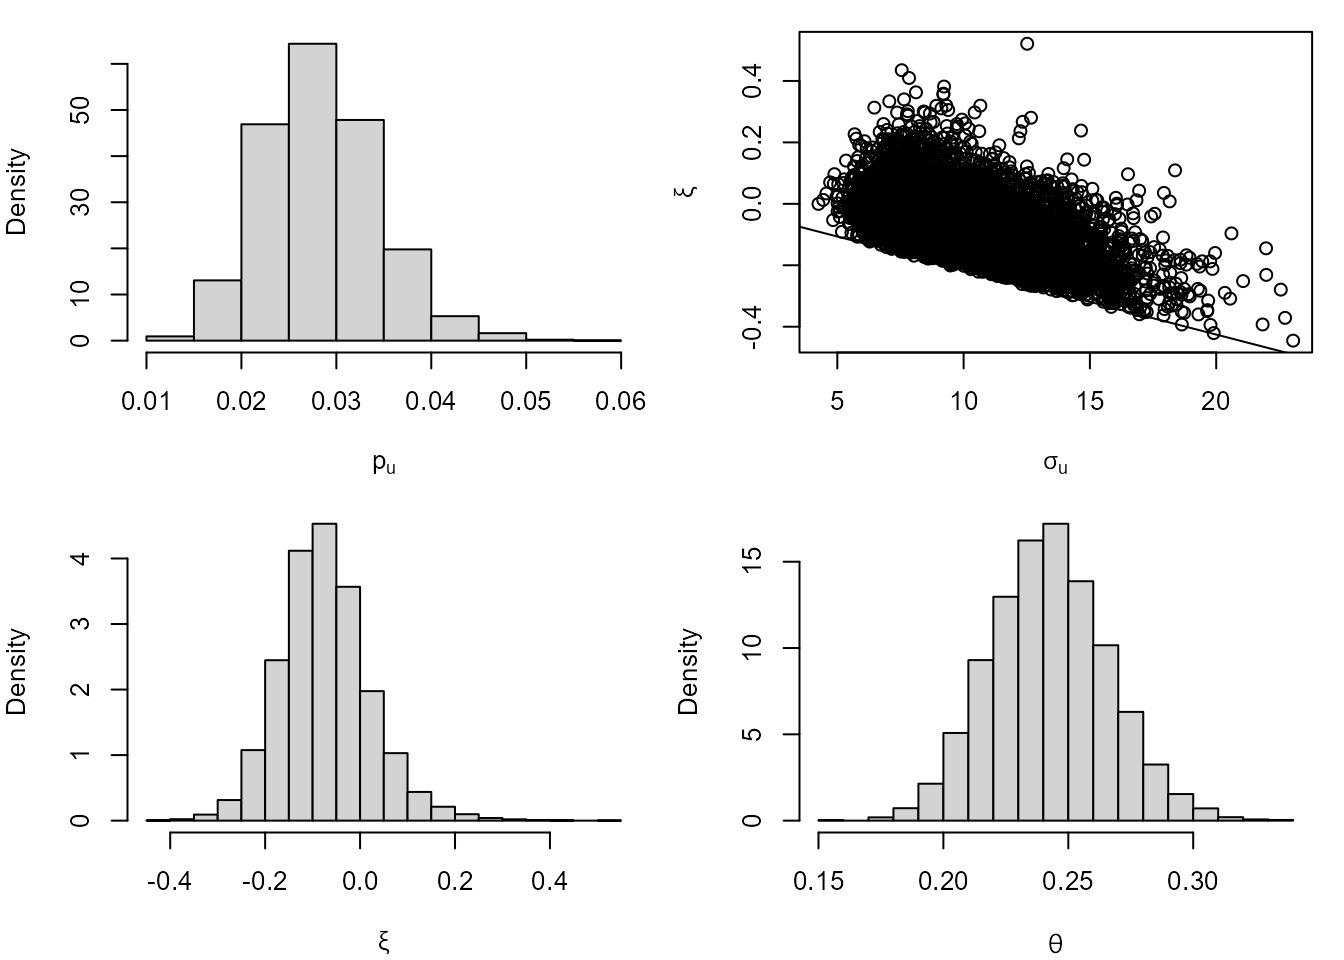
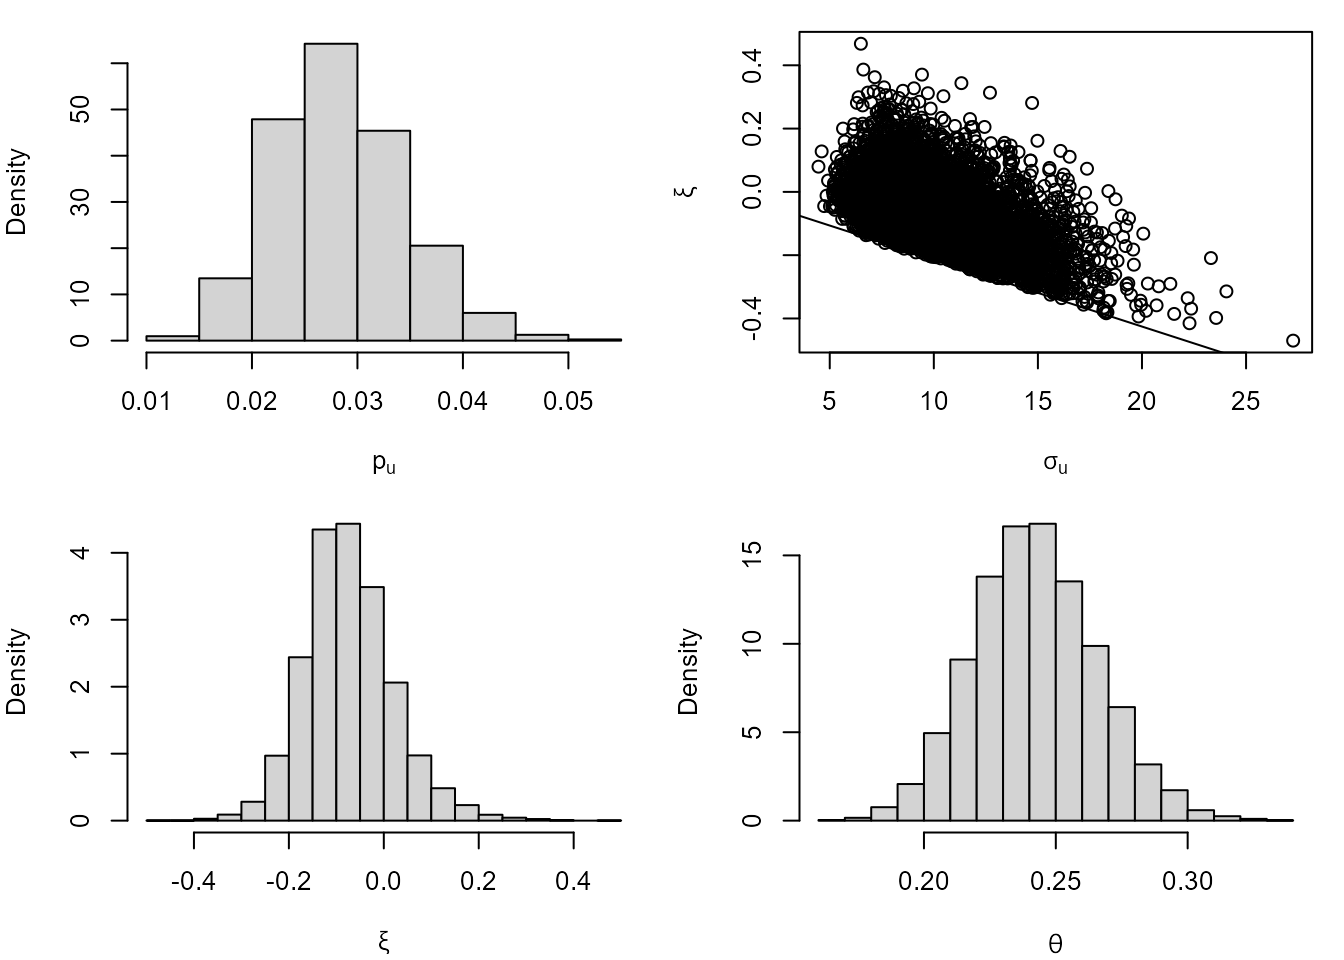
pkgdown

diff --git a/docs/reference/bliteMethods.html b/docs/reference/bliteMethods.html
@@ -1,6 +1,7 @@
 <!DOCTYPE html>
 <!-- Generated by pkgdown: do not edit by hand --><html lang="en"><head><meta http-equiv="Content-Type" content="text/html; charset=UTF-8"><meta charset="utf-8"><meta http-equiv="X-UA-Compatible" content="IE=edge"><meta name="viewport" content="width=device-width, initial-scale=1.0"><title>Methods for objects of class "blite" — bliteMethods • lite</title><!-- jquery --><script src="https://cdnjs.cloudflare.com/ajax/libs/jquery/3.4.1/jquery.min.js" integrity="sha256-CSXorXvZcTkaix6Yvo6HppcZGetbYMGWSFlBw8HfCJo=" crossorigin="anonymous"></script><!-- Bootstrap --><link href="https://cdnjs.cloudflare.com/ajax/libs/bootswatch/3.4.0/paper/bootstrap.min.css" rel="stylesheet" crossorigin="anonymous"><script src="https://cdnjs.cloudflare.com/ajax/libs/twitter-bootstrap/3.4.1/js/bootstrap.min.js" integrity="sha256-nuL8/2cJ5NDSSwnKD8VqreErSWHtnEP9E7AySL+1ev4=" crossorigin="anonymous"></script><!-- bootstrap-toc --><link rel="stylesheet" href="../bootstrap-toc.css"><script src="../bootstrap-toc.js"></script><!-- Font Awesome icons --><link rel="stylesheet" href="https://cdnjs.cloudflare.com/ajax/libs/font-awesome/5.12.1/css/all.min.css" integrity="sha256-mmgLkCYLUQbXn0B1SRqzHar6dCnv9oZFPEC1g1cwlkk=" crossorigin="anonymous"><link rel="stylesheet" href="https://cdnjs.cloudflare.com/ajax/libs/font-awesome/5.12.1/css/v4-shims.min.css" integrity="sha256-wZjR52fzng1pJHwx4aV2AO3yyTOXrcDW7jBpJtTwVxw=" crossorigin="anonymous"><!-- clipboard.js --><script src="https://cdnjs.cloudflare.com/ajax/libs/clipboard.js/2.0.6/clipboard.min.js" integrity="sha256-inc5kl9MA1hkeYUt+EC3BhlIgyp/2jDIyBLS6k3UxPI=" crossorigin="anonymous"></script><!-- headroom.js --><script src="https://cdnjs.cloudflare.com/ajax/libs/headroom/0.11.0/headroom.min.js" integrity="sha256-AsUX4SJE1+yuDu5+mAVzJbuYNPHj/WroHuZ8Ir/CkE0=" crossorigin="anonymous"></script><script src="https://cdnjs.cloudflare.com/ajax/libs/headroom/0.11.0/jQuery.headroom.min.js" integrity="sha256-ZX/yNShbjqsohH1k95liqY9Gd8uOiE1S4vZc+9KQ1K4=" crossorigin="anonymous"></script><!-- pkgdown --><link href="../pkgdown.css" rel="stylesheet"><script src="../pkgdown.js"></script><meta property="og:title" content="Methods for objects of class " blite blitemethods><meta property="og:description" content='Methods for objects of class "blite" returned from
-blite.'><!-- mathjax --><script src="https://cdnjs.cloudflare.com/ajax/libs/mathjax/2.7.5/MathJax.js" integrity="sha256-nvJJv9wWKEm88qvoQl9ekL2J+k/RWIsaSScxxlsrv8k=" crossorigin="anonymous"></script><script src="https://cdnjs.cloudflare.com/ajax/libs/mathjax/2.7.5/config/TeX-AMS-MML_HTMLorMML.js" integrity="sha256-84DKXVJXs0/F8OTMzX4UR909+jtl4G7SPypPavF+GfA=" crossorigin="anonymous"></script><!--[if lt IE 9]>
+blite. confint.blite is a misnomer: it returns
+Bayesian credible intervals.'><!-- mathjax --><script src="https://cdnjs.cloudflare.com/ajax/libs/mathjax/2.7.5/MathJax.js" integrity="sha256-nvJJv9wWKEm88qvoQl9ekL2J+k/RWIsaSScxxlsrv8k=" crossorigin="anonymous"></script><script src="https://cdnjs.cloudflare.com/ajax/libs/mathjax/2.7.5/config/TeX-AMS-MML_HTMLorMML.js" integrity="sha256-84DKXVJXs0/F8OTMzX4UR909+jtl4G7SPypPavF+GfA=" crossorigin="anonymous"></script><!--[if lt IE 9]>
 <script src="https://oss.maxcdn.com/html5shiv/3.7.3/html5shiv.min.js"></script>
 <script src="https://oss.maxcdn.com/respond/1.4.2/respond.min.js"></script>
 <![endif]--></head><body data-spy="scroll" data-target="#toc">
@@ -64,7 +65,8 @@ blite.'><!-- mathjax --><script src="https://cdnjs.cloudflare.com/ajax/libs/math
 
     <div class="ref-description">
     <p>Methods for objects of class <code>"blite"</code> returned from
-<code><a href="blite.html">blite</a></code>.</p>
+<code><a href="blite.html">blite</a></code>. <code>confint.blite</code> is a misnomer: it returns
+Bayesian credible intervals.</p>
     </div>
 
     <div id="ref-usage">
@@ -90,7 +92,10 @@ blite.'><!-- mathjax --><script src="https://cdnjs.cloudflare.com/ajax/libs/math
 <span><span class="op">)</span></span>
 <span></span>
 <span><span class="co"># S3 method for summary.blite</span></span>
-<span><span class="fu"><a href="https://rdrr.io/r/base/print.html" class="external-link">print</a></span><span class="op">(</span><span class="va">x</span>, <span class="va">...</span><span class="op">)</span></span></code></pre></div>
+<span><span class="fu"><a href="https://rdrr.io/r/base/print.html" class="external-link">print</a></span><span class="op">(</span><span class="va">x</span>, <span class="va">...</span><span class="op">)</span></span>
+<span></span>
+<span><span class="co"># S3 method for blite</span></span>
+<span><span class="fu"><a href="https://rdrr.io/r/stats/confint.html" class="external-link">confint</a></span><span class="op">(</span><span class="va">object</span>, parm <span class="op">=</span> <span class="st">"all"</span>, level <span class="op">=</span> <span class="fl">0.95</span>, <span class="va">...</span><span class="op">)</span></span></code></pre></div>
     </div>
 
     <div id="arguments">
@@ -118,8 +123,8 @@ described in <strong>Details</strong>.</p></dd>
 
 
 <dt>object</dt>
-<dd><p>An object inheriting from class <code>"blite"</code>, a result of a
-call to <code><a href="blite.html">blite</a></code>.</p></dd>
+<dd><p>An object of class <code>"blite"</code>, returned by
+<code><a href="blite.html">blite</a></code>.</p></dd>
 
 
 <dt>fun</dt>
@@ -141,6 +146,23 @@ values in <code>object</code>.  If <code>fun</code> is missing then
 <dt>digits</dt>
 <dd><p>An integer. Passed to <code>signif</code> to
 round the values in the summary.</p></dd>
+
+
+<dt>parm</dt>
+<dd><p>A character vector specifying the parameters for which
+confidence intervals are required. The default, <code>which = "all"</code>,
+produces confidence intervals for all the parameters, that is,
+\(p\)<sub>u</sub>,
+\(\sigma\)<sub>u</sub>,
+\(\xi\) and \(\theta\). If <code>which = "gp"</code> then intervals are
+produced only for
+\(\sigma\)<sub>u</sub> and
+\(\xi\). Otherwise, <code>parm</code> must be a subset of
+<code>c("pu", "sigmau", "xi", "theta")</code>.</p></dd>
+
+
+<dt>level</dt>
+<dd><p>The credible level required.  A numeric scalar in (0, 1).</p></dd>
 
 </dl></div>
     <div id="value">
@@ -180,6 +202,12 @@ round the values in the summary.</p></dd>
 <p><code>print.summary.blite</code>.</p>
 <p></p>
 <p><code>print.summary.blite</code>: the argument <code>x</code> is returned, invisibly.</p>
+<p></p>
+<p><code>confint.blite</code>: a numeric matrix with 2 columns giving the lower and
+    upper credible limits for each parameter. These columns are labelled
+    as <code>(1-level)/2</code> and <code>1-(1-level)/2</code>, expressed as a
+    percentage, by default <code>2.5%</code> and <code>97.5%</code>.  The row names
+    are the names of the parameters supplied in <code>parm</code>.</p>
     </div>
     <div id="details">
     <h2>Details</h2>

diff --git a/docs/reference/predict.blite.html b/docs/reference/predict.blite.html
@@ -266,16 +266,13 @@ arguments are used.</p></dd>
 <span class="r-in"><span><span class="co"># blite() sets cluster automatically to correspond to column (year)</span></span></span>
 <span class="r-in"><span><span class="va">cpost</span> <span class="op">&lt;-</span> <span class="fu"><a href="blite.html">blite</a></span><span class="op">(</span><span class="va">cdata</span>, u <span class="op">=</span> <span class="fl">45</span>, k <span class="op">=</span> <span class="fl">3</span>, ny <span class="op">=</span> <span class="fl">31</span> <span class="op">*</span> <span class="fl">24</span><span class="op">)</span></span></span>
 <span class="r-in"><span></span></span>
-<span class="r-in"><span><span class="co"># Need revdbayes v1.5.9 for the following examples to be correct</span></span></span>
-<span class="r-in"><span><span class="co"># (At the moment they are based on theta = 1)</span></span></span>
-<span class="r-in"><span></span></span>
 <span class="r-in"><span><span class="co"># Interval estimation</span></span></span>
 <span class="r-in"><span><span class="fu"><a href="https://rdrr.io/r/stats/predict.html" class="external-link">predict</a></span><span class="op">(</span><span class="va">cpost</span><span class="op">)</span><span class="op">$</span><span class="va">long</span></span></span>
 <span class="r-out co"><span class="r-pr">#&gt;</span>         lower    upper n_years level</span>
-<span class="r-out co"><span class="r-pr">#&gt;</span> [1,] 78.04858 160.7361     100    95</span>
+<span class="r-out co"><span class="r-pr">#&gt;</span> [1,] 77.70436 159.3946     100    95</span>
 <span class="r-in"><span><span class="fu"><a href="https://rdrr.io/r/stats/predict.html" class="external-link">predict</a></span><span class="op">(</span><span class="va">cpost</span>, hpd <span class="op">=</span> <span class="cn">TRUE</span><span class="op">)</span><span class="op">$</span><span class="va">short</span></span></span>
-<span class="r-out co"><span class="r-pr">#&gt;</span>        lower    upper n_years level</span>
-<span class="r-out co"><span class="r-pr">#&gt;</span> [1,] 73.3394 142.4557     100    95</span>
+<span class="r-out co"><span class="r-pr">#&gt;</span>         lower    upper n_years level</span>
+<span class="r-out co"><span class="r-pr">#&gt;</span> [1,] 73.15134 141.6464     100    95</span>
 <span class="r-in"><span></span></span>
 <span class="r-in"><span><span class="co"># Density function</span></span></span>
 <span class="r-in"><span><span class="fu"><a href="https://rdrr.io/r/graphics/plot.default.html" class="external-link">plot</a></span><span class="op">(</span><span class="fu"><a href="https://rdrr.io/r/stats/predict.html" class="external-link">predict</a></span><span class="op">(</span><span class="va">cpost</span>, type <span class="op">=</span> <span class="st">"d"</span>, n_years <span class="op">=</span> <span class="fu"><a href="https://rdrr.io/r/base/c.html" class="external-link">c</a></span><span class="op">(</span><span class="fl">100</span>, <span class="fl">1000</span><span class="op">)</span><span class="op">)</span><span class="op">)</span></span></span>
@@ -288,11 +285,11 @@ arguments are used.</p></dd>
 <span class="r-in"><span><span class="co"># Quantiles</span></span></span>
 <span class="r-in"><span><span class="fu"><a href="https://rdrr.io/r/stats/predict.html" class="external-link">predict</a></span><span class="op">(</span><span class="va">cpost</span>, type <span class="op">=</span> <span class="st">"q"</span>, n_years <span class="op">=</span> <span class="fu"><a href="https://rdrr.io/r/base/c.html" class="external-link">c</a></span><span class="op">(</span><span class="fl">100</span>, <span class="fl">1000</span><span class="op">)</span><span class="op">)</span><span class="op">$</span><span class="va">y</span></span></span>
 <span class="r-out co"><span class="r-pr">#&gt;</span>           [,1]      [,2]</span>
-<span class="r-out co"><span class="r-pr">#&gt;</span> [1,]  78.04858  86.21696</span>
-<span class="r-out co"><span class="r-pr">#&gt;</span> [2,]  88.00688  96.97758</span>
-<span class="r-out co"><span class="r-pr">#&gt;</span> [3,]  95.50685 107.00099</span>
-<span class="r-out co"><span class="r-pr">#&gt;</span> [4,] 107.25123 124.48108</span>
-<span class="r-out co"><span class="r-pr">#&gt;</span> [5,] 160.73611 221.91289</span>
+<span class="r-out co"><span class="r-pr">#&gt;</span> [1,]  77.70436  85.73610</span>
+<span class="r-out co"><span class="r-pr">#&gt;</span> [2,]  87.75195  96.30299</span>
+<span class="r-out co"><span class="r-pr">#&gt;</span> [3,]  95.25736 106.32604</span>
+<span class="r-out co"><span class="r-pr">#&gt;</span> [4,] 107.04512 124.86683</span>
+<span class="r-out co"><span class="r-pr">#&gt;</span> [5,] 159.39456 218.13710</span>
 <span class="r-in"><span></span></span>
 <span class="r-in"><span><span class="co"># Random generation</span></span></span>
 <span class="r-in"><span><span class="fu"><a href="https://rdrr.io/r/graphics/plot.default.html" class="external-link">plot</a></span><span class="op">(</span><span class="fu"><a href="https://rdrr.io/r/stats/predict.html" class="external-link">predict</a></span><span class="op">(</span><span class="va">cpost</span>, type <span class="op">=</span> <span class="st">"r"</span><span class="op">)</span><span class="op">)</span></span></span>

diff --git a/docs/news/index.html b/docs/news/index.html
@@ -64,15 +64,15 @@
 <h2 class="page-header" data-toc-text="1.1.0" id="lite-110">lite 1.1.0<a class="anchor" aria-label="anchor" href="#lite-110"></a></h2>
 <div class="section level3">
 <h3 id="new-features-1-1-0">New features<a class="anchor" aria-label="anchor" href="#new-features-1-1-0"></a></h3>
-<ul><li><p>Objects of class <code>flite</code> returned from <code><a href="../reference/flite.html">flite()</a></code> now have a <code>confint</code> method.</p></li>
-<li><p>The new function <code><a href="../reference/blite.html">blite()</a></code> performs Bayesian threshold-based inference for time series extremes. It is a Bayesian version of the existing function <code><a href="../reference/flite.html">flite()</a></code>, which performs frequentist inference.</p></li>
+<ul><li><p>The new function <code><a href="../reference/blite.html">blite()</a></code> performs Bayesian threshold-based inference for time series extremes. It is a Bayesian version of the existing function <code><a href="../reference/flite.html">flite()</a></code>, which performs frequentist inference.</p></li>
 <li><p>Objects returned from <code><a href="../reference/blite.html">blite()</a></code> have a predict S3 method <code><a href="../reference/predict.blite.html">predict.blite()</a></code> based on the <code>predict.evpost()</code> method from the <code>revdbayes</code>package. It provides predictive inferences for the largest value observed in <em>N</em> years.</p></li>
+<li><p>Objects of class <code>flite</code> returned from <code><a href="../reference/flite.html">flite()</a></code> now have a <code>confint</code> method.</p></li>
 </ul></div>
 <div class="section level3">
 <h3 id="bug-fixes-and-minor-improvements-1-1-0">Bug fixes and minor improvements<a class="anchor" aria-label="anchor" href="#bug-fixes-and-minor-improvements-1-1-0"></a></h3>
 <ul><li><p>In <code><a href="../reference/flite.html">flite()</a></code>, the arguments <code>k</code> and <code>inc_cens</code> were not passed to <code><a href="https://paulnorthrop.github.io/exdex/reference/kgaps.html" class="external-link">exdex::kgaps()</a></code>. This has been corrected.</p></li>
 <li><p>In the (unexported, internal) function <code><a href="../reference/lite-internal.html">bingp_rl_CI()</a></code> an error is triggered if the return level requested is lower than the threshold used to fit the model.</p></li>
-<li><p>In the (unexported, internal) function <code><a href="../reference/lite-internal.html">bingp_rl_prof()</a></code>, which calculates a confidence interval for a return level based on a profile log-likelihood, a check is made on the value <code>p</code> to be passed to <code><a href="https://paulnorthrop.github.io/revdbayes/reference/gp.html" class="external-link">revdbayes::qgp</a></code> to check that it is in [0, 1].</p></li>
+<li><p>In the (unexported, internal) function <code><a href="../reference/lite-internal.html">bingp_rl_prof()</a></code>, which calculates a confidence interval for a return level based on a profile log-likelihood, a check is made on the value <code>p</code> to be passed to <code><a href="https://paulnorthrop.github.io/revdbayes/reference/gp.html" class="external-link">revdbayes::qgp()</a></code> to check that it is in [0, 1].</p></li>
 </ul></div>
 </div>
   </div>

diff --git a/docs/articles/lite-2-bayesian.html b/docs/articles/lite-2-bayesian.html
@@ -135,10 +135,10 @@ numerical and graphical marginal summaries of the posterior samples.</p>
 <span><span class="co">#&gt; blite(data = cdata, u = 45, k = 3, ny = 31 * 24, n = 10000)</span></span>
 <span><span class="co">#&gt; </span></span>
 <span><span class="co">#&gt;          Posterior mean Posterior SD</span></span>
-<span><span class="co">#&gt; p[u]            0.02836     0.006017</span></span>
-<span><span class="co">#&gt; sigma[u]        9.96700     2.372000</span></span>
-<span><span class="co">#&gt; xi             -0.07369     0.094330</span></span>
-<span><span class="co">#&gt; theta           0.24230     0.023540</span></span>
+<span><span class="co">#&gt; p[u]            0.02831     0.006071</span></span>
+<span><span class="co">#&gt; sigma[u]        9.97800     2.350000</span></span>
+<span><span class="co">#&gt; xi             -0.07297     0.094100</span></span>
+<span><span class="co">#&gt; theta           0.24220     0.023500</span></span>
 <span><span class="fu"><a href="https://rdrr.io/r/graphics/plot.default.html" class="external-link">plot</a></span><span class="op">(</span><span class="va">cpost</span><span class="op">)</span></span></code></pre></div>
 <p><img src="lite-2-bayesian_files/figure-html/vertical-1.png" width="672"></p>
 </div>
@@ -165,7 +165,7 @@ predictive densities of <span class="math inline">\(M_{100}\)</span> and
 <code class="sourceCode R"><span><span class="co"># Interval estimation</span></span>
 <span><span class="fu"><a href="https://rdrr.io/r/stats/predict.html" class="external-link">predict</a></span><span class="op">(</span><span class="va">cpost</span>, hpd <span class="op">=</span> <span class="cn">TRUE</span><span class="op">)</span><span class="op">$</span><span class="va">short</span></span>
 <span><span class="co">#&gt;         lower    upper n_years level</span></span>
-<span><span class="co">#&gt; [1,] 72.57515 138.3361     100    95</span></span></code></pre></div>
+<span><span class="co">#&gt; [1,] 72.74157 139.9194     100    95</span></span></code></pre></div>
 <div class="sourceCode" id="cb4"><pre class="downlit sourceCode r">
 <code class="sourceCode R"><span><span class="co"># Density function</span></span>
 <span><span class="fu"><a href="https://rdrr.io/r/graphics/plot.default.html" class="external-link">plot</a></span><span class="op">(</span><span class="fu"><a href="https://rdrr.io/r/stats/predict.html" class="external-link">predict</a></span><span class="op">(</span><span class="va">cpost</span>, type <span class="op">=</span> <span class="st">"d"</span>, n_years <span class="op">=</span> <span class="fu"><a href="https://rdrr.io/r/base/c.html" class="external-link">c</a></span><span class="op">(</span><span class="fl">100</span>, <span class="fl">1000</span><span class="op">)</span><span class="op">)</span><span class="op">)</span></span></code></pre></div>

diff --git a/docs/reference/blite.html b/docs/reference/blite.html
@@ -288,10 +288,22 @@ may make a difference if the number of clusters is not large.</p></dd>
 <span class="r-out co"><span class="r-pr">#&gt;</span> blite(data = cdata, u = 45, k = 3)</span>
 <span class="r-out co"><span class="r-pr">#&gt;</span> </span>
 <span class="r-out co"><span class="r-pr">#&gt;</span>          Posterior mean Posterior SD</span>
-<span class="r-out co"><span class="r-pr">#&gt;</span> p[u]            0.02856     0.006281</span>
-<span class="r-out co"><span class="r-pr">#&gt;</span> sigma[u]       10.01000     2.368000</span>
-<span class="r-out co"><span class="r-pr">#&gt;</span> xi             -0.07374     0.096460</span>
-<span class="r-out co"><span class="r-pr">#&gt;</span> theta           0.24100     0.023160</span>
+<span class="r-out co"><span class="r-pr">#&gt;</span> p[u]            0.02841     0.006202</span>
+<span class="r-out co"><span class="r-pr">#&gt;</span> sigma[u]        9.95500     2.404000</span>
+<span class="r-out co"><span class="r-pr">#&gt;</span> xi             -0.07268     0.096160</span>
+<span class="r-out co"><span class="r-pr">#&gt;</span> theta           0.24370     0.023390</span>
+<span class="r-in"><span></span></span>
+<span class="r-in"><span><span class="co">## Plots of posterior samples</span></span></span>
+<span class="r-in"><span><span class="fu"><a href="https://rdrr.io/r/graphics/plot.default.html" class="external-link">plot</a></span><span class="op">(</span><span class="va">cpost</span><span class="op">)</span></span></span>
+<span class="r-plt img"><img src="blite-1.png" alt="" width="700" height="433"></span>
+<span class="r-in"><span></span></span>
+<span class="r-in"><span><span class="co">## Credible intervals</span></span></span>
+<span class="r-in"><span><span class="fu"><a href="https://rdrr.io/r/stats/confint.html" class="external-link">confint</a></span><span class="op">(</span><span class="va">cpost</span><span class="op">)</span></span></span>
+<span class="r-out co"><span class="r-pr">#&gt;</span>               2.5%       97.5%</span>
+<span class="r-out co"><span class="r-pr">#&gt;</span> pu      0.01767561  0.04194814</span>
+<span class="r-out co"><span class="r-pr">#&gt;</span> sigmau  6.25537306 15.59502295</span>
+<span class="r-out co"><span class="r-pr">#&gt;</span> xi     -0.25432263  0.14618667</span>
+<span class="r-out co"><span class="r-pr">#&gt;</span> theta   0.19803867  0.29149030</span>
 </code></pre></div>
     </div>
   </div>

diff --git a/docs/reference/index.html b/docs/reference/index.html
@@ -104,7 +104,7 @@
           <p class="section-desc"></p>
         </th>
       </tr></tbody><tbody><tr><td>
-          <p><code><a href="bliteMethods.html">plot(<i>&lt;blite&gt;</i>)</a></code> <code><a href="bliteMethods.html">coef(<i>&lt;blite&gt;</i>)</a></code> <code><a href="bliteMethods.html">vcov(<i>&lt;blite&gt;</i>)</a></code> <code><a href="bliteMethods.html">nobs(<i>&lt;blite&gt;</i>)</a></code> <code><a href="bliteMethods.html">summary(<i>&lt;blite&gt;</i>)</a></code> <code><a href="bliteMethods.html">print(<i>&lt;summary.blite&gt;</i>)</a></code> </p>
+          <p><code><a href="bliteMethods.html">plot(<i>&lt;blite&gt;</i>)</a></code> <code><a href="bliteMethods.html">coef(<i>&lt;blite&gt;</i>)</a></code> <code><a href="bliteMethods.html">vcov(<i>&lt;blite&gt;</i>)</a></code> <code><a href="bliteMethods.html">nobs(<i>&lt;blite&gt;</i>)</a></code> <code><a href="bliteMethods.html">summary(<i>&lt;blite&gt;</i>)</a></code> <code><a href="bliteMethods.html">print(<i>&lt;summary.blite&gt;</i>)</a></code> <code><a href="bliteMethods.html">confint(<i>&lt;blite&gt;</i>)</a></code> </p>
         </td>
         <td><p>Methods for objects of class <code>"blite"</code></p></td>
       </tr><tr><td>

diff --git a/docs/reference/flite.html b/docs/reference/flite.html
@@ -171,10 +171,10 @@ may make a difference if the number of clusters is not large.</p></dd>
 
 <p>Objects inheriting from class <code>"flite"</code> have <code>coef</code>,</p>
 <p></p>
-<p><code>logLik</code>, <code>nobs</code>, <code>plot</code>, <code>summary</code> and <code>vcov</code></p>
+<p><code>logLik</code>, <code>nobs</code>, <code>plot</code>, <code>summary</code>, <code>vcov</code></p>
 
 
-<p>methods.  See <code><a href="fliteMethods.html">fliteMethods</a></code>.</p>
+<p>and <code>confint</code> methods.  See <code><a href="fliteMethods.html">fliteMethods</a></code>.</p>
     </div>
     <div id="details">
     <h2>Details</h2>
